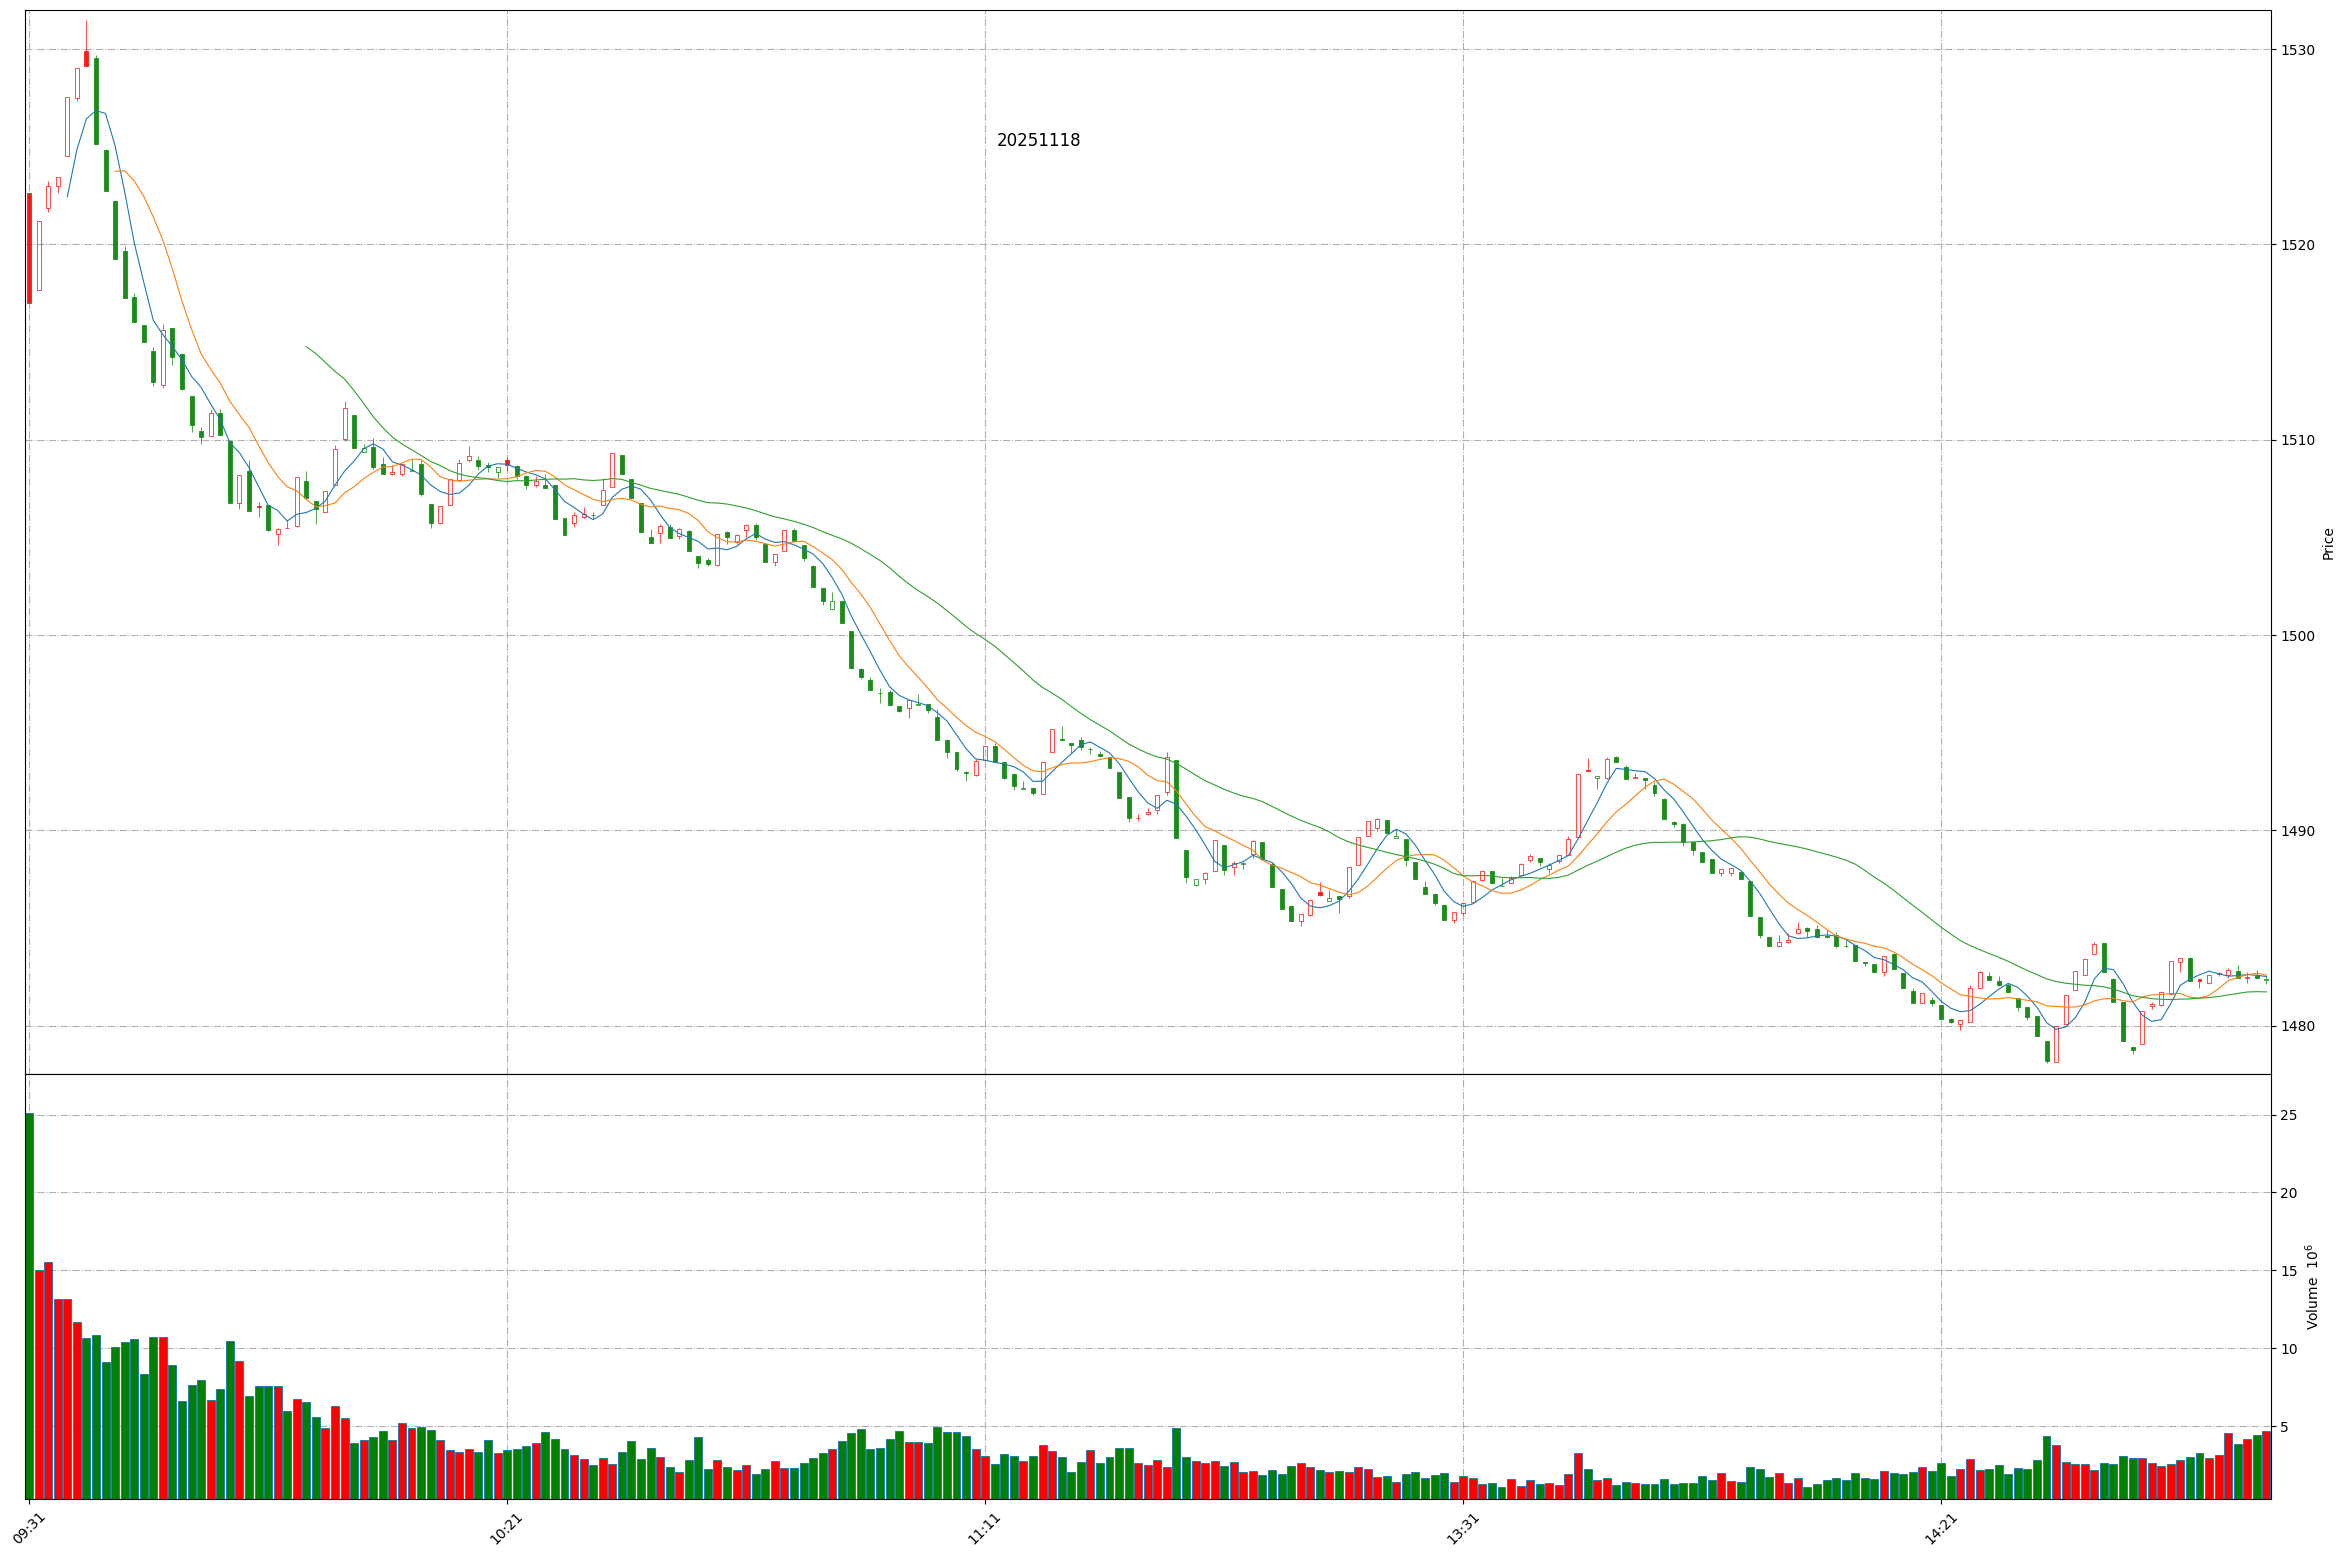
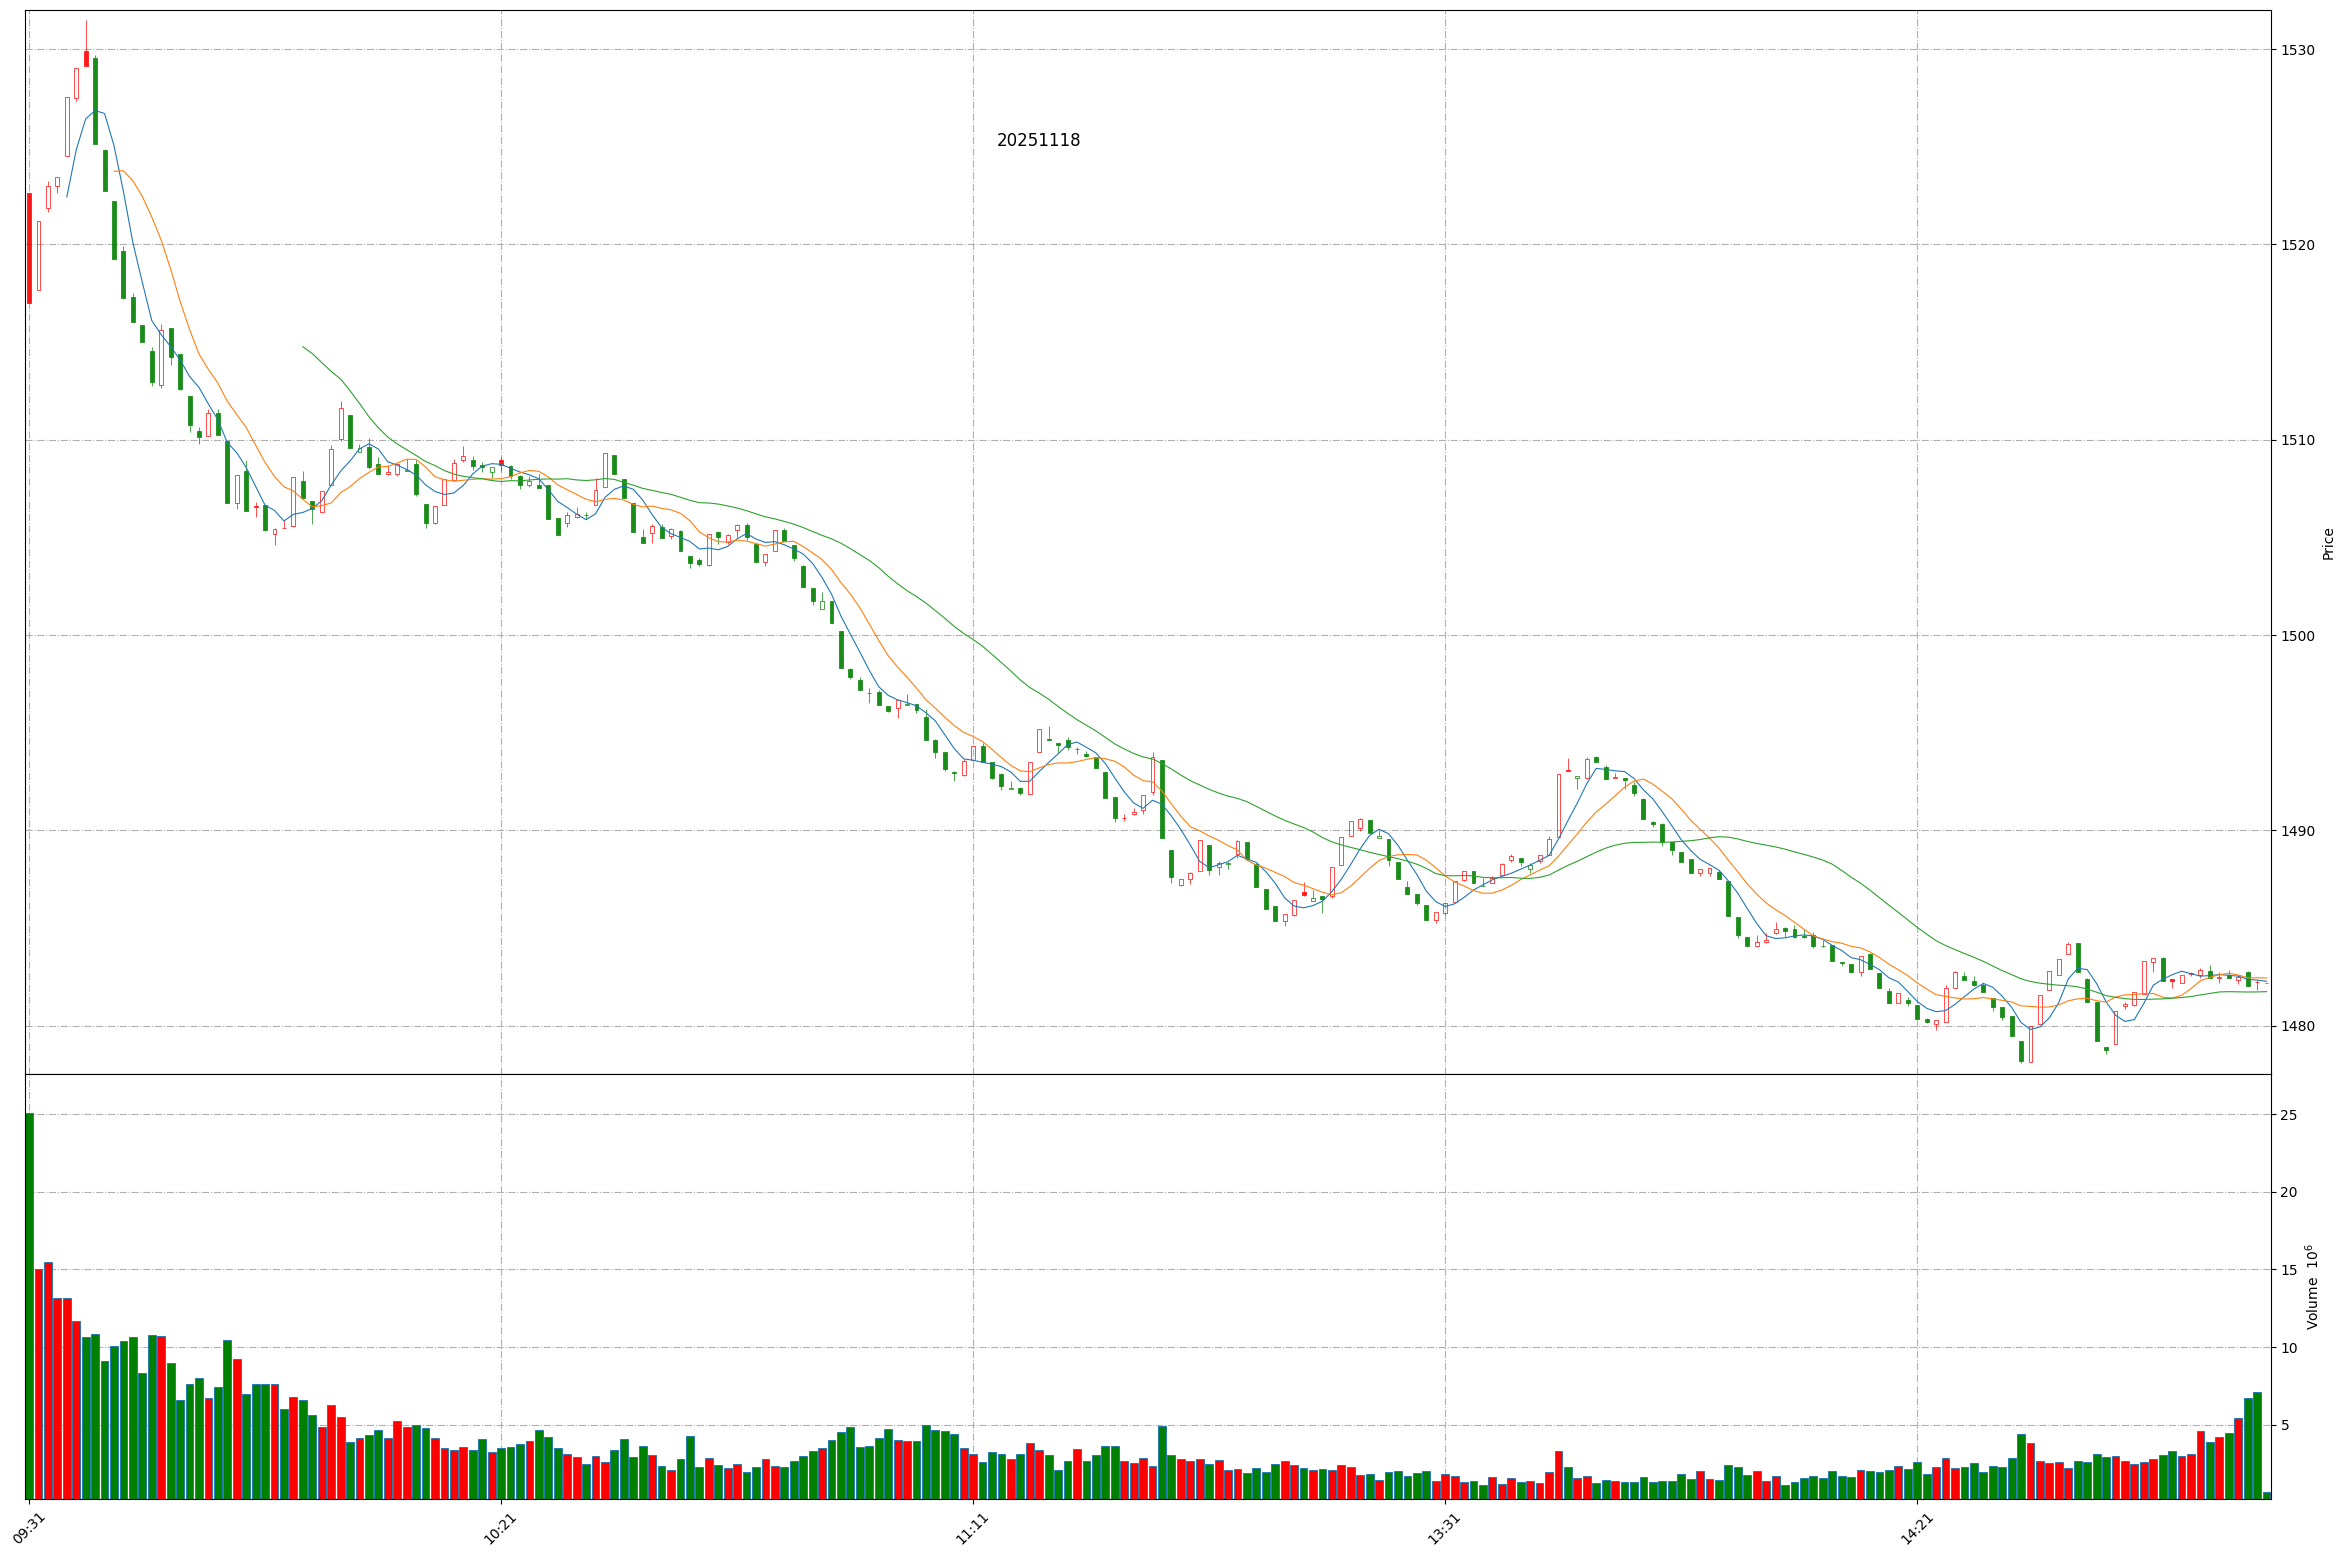
Github action update at 2025-11-18 14:57:28.

diff --git a/README.md b/README.md
@@ -1,11 +1,11 @@
 
 # Daily-A-share-market-quotes 每日 A 股指数（5min 更新）- 20251118
 
-### 上证指数 20251118 14:55
+### 上证指数 20251118 14:57
 ![](./fig/2025/11/20251118-sh000001.png)
 
-### 深证成指 20251118 14:55
+### 深证成指 20251118 14:57
 ![](./fig/2025/11/20251118-sz399001.png)
 
-### 北证50 20251118 14:55
+### 北证50 20251118 14:57
 ![](./fig/2025/11/20251118-bj899050.png)
